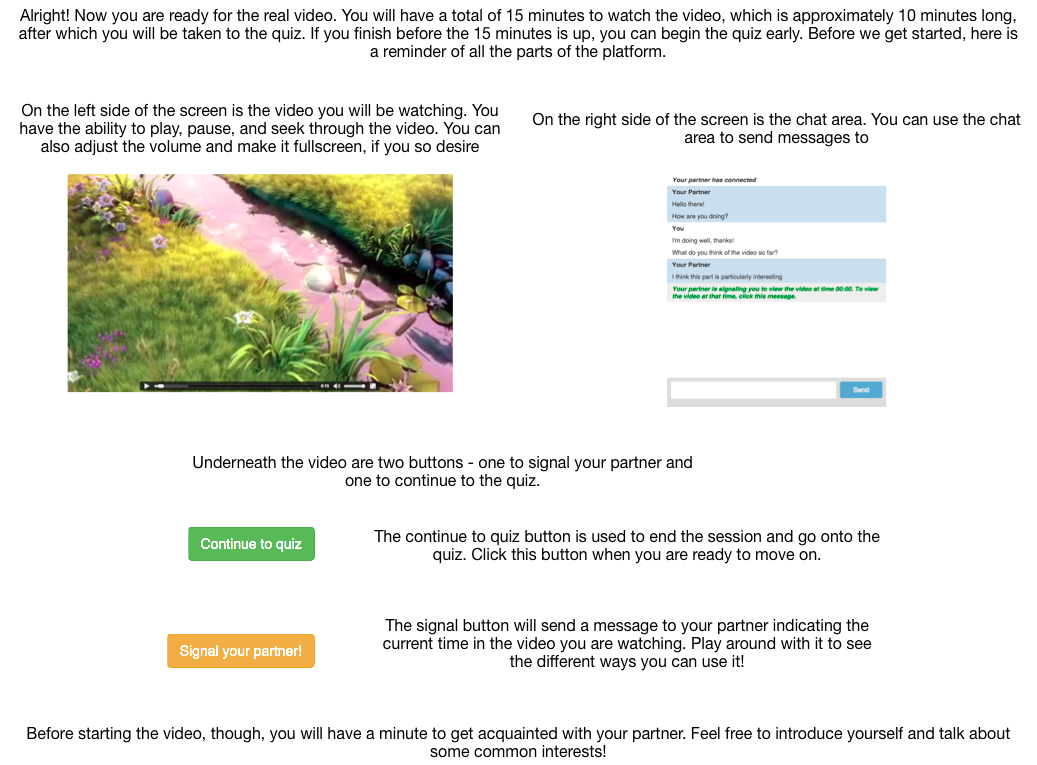
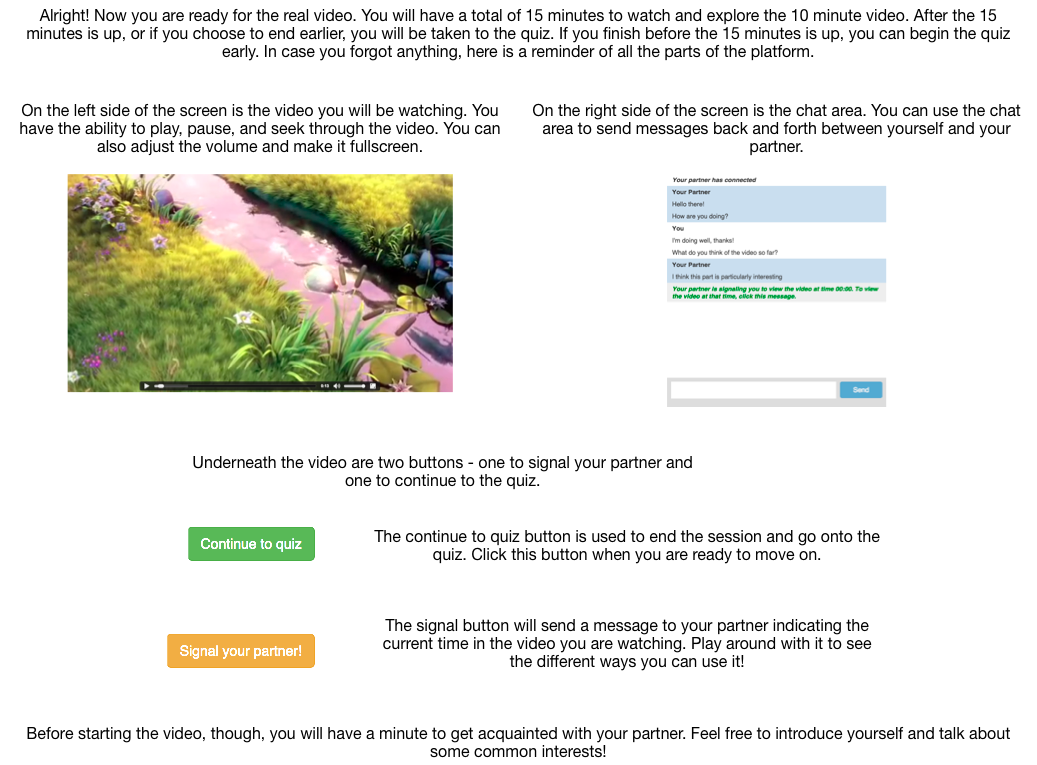
don't display messages vefore ready, fix tutorial columns, and add logging for readying up

Changed region(s): [[0.0, 0.0, 0.9875, 0.0902], [0.5246, 0.1203, 0.9875, 0.2105], [0.0309, 0.1804, 0.4629, 0.2105]]

diff --git a/content/js/groupB.js b/content/js/groupB.js
@@ -3,19 +3,21 @@ var id = -1;
 var ready = false;
 
 socket.on('chat message', function(msg) {
-    if(msg.id == id) {
-        if($('#messages li:last-child').attr('class') != 'self-message') {
-            $('#messages').append($('<li class=self-message>').append($('<b>').text("You")));
+    if(ready) {
+        if(msg.id == id) {
+            if($('#messages li:last-child').attr('class') != 'self-message') {
+                $('#messages').append($('<li class=self-message>').append($('<b>').text("You")));
+            }
+            $('#messages').append($('<li class=self-message>').text(msg.msg));
+            $("#messages").scrollTop($("#messages")[0].scrollHeight);
         }
-        $('#messages').append($('<li class=self-message>').text(msg.msg));
-        $("#messages").scrollTop($("#messages")[0].scrollHeight);
-    }
-    else {
-        if($('#messages li:last-child').attr('class') != 'partner-message') {
-            $('#messages').append($('<li class=partner-message>').append($('<b>').text("Your Partner")));
+        else {
+            if($('#messages li:last-child').attr('class') != 'partner-message') {
+                $('#messages').append($('<li class=partner-message>').append($('<b>').text("Your Partner")));
+            }
+            $('#messages').append($('<li class="partner-message">').text(msg.msg));
+            $("#messages").scrollTop($("#messages")[0].scrollHeight);
         }
-        $('#messages').append($('<li class="partner-message">').text(msg.msg));
-        $("#messages").scrollTop($("#messages")[0].scrollHeight);
     }
 });
 

diff --git a/content/tutorial.html b/content/tutorial.html
@@ -46,7 +46,7 @@
         <div id="content"  class="row">
 
             <!-- Video -->
-            <div id="movie-area" class="col-md-8">
+            <div id="movie-area" class="col-xs-8">
                 <video id="movie" controls>
                     <source src="assets/movie3.mp4" type="video/mp4">
                 </video>
@@ -55,7 +55,7 @@
             </div>
 
             <!-- Chat -->
-            <div id="chat-area" class="col-md-4">
+            <div id="chat-area" class="col-xs-4">
                 <ul id="messages" class="messages">
                     <li class="system-message">Your partner has connected</li>
                     <li class="partner-message"><b>Your Partner</b></li>

diff --git a/app.js b/app.js
@@ -73,6 +73,7 @@ io.on('connection', function(socket) {
 
     socket.on('ready', function(msg) {
         if(readyUsers < 2) {
+            console.log('User ready');
             readyUsers++;
             if(readyUsers === 2) {
                 io.emit('connected', 'Your partner has connected');
@@ -84,7 +85,7 @@ io.on('connection', function(socket) {
                 if(intro) {
                     timer--;
                     if(timer === 0) {
-                        timer = 15;
+                        timer = 600;
                         intro = false;
                     }
                 }
